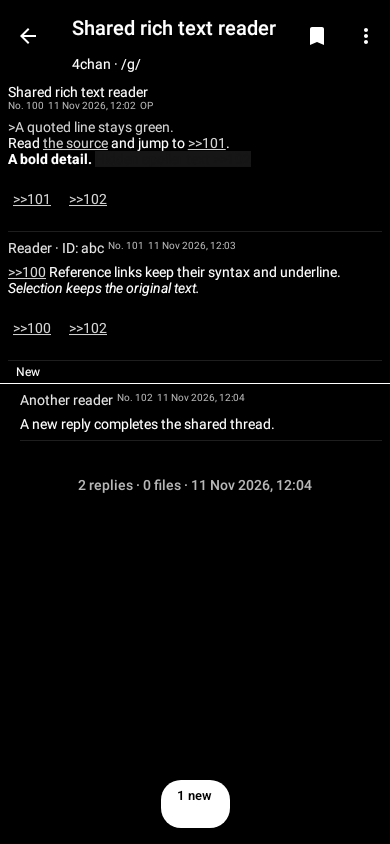
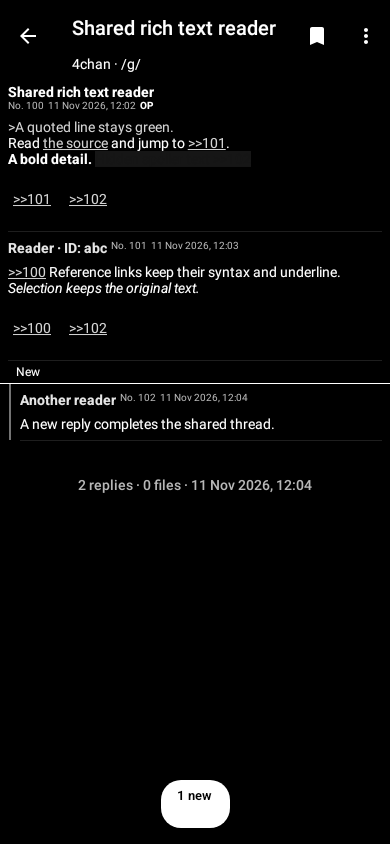
Fix remaining ktlint formatting and update :core:reader Roborazzi screenshots

diff --git a/ui-next/src/commonMain/kotlin/com/orbin/uinext/ReaderCatalogControls.kt b/ui-next/src/commonMain/kotlin/com/orbin/uinext/ReaderCatalogControls.kt
@@ -166,8 +166,7 @@ fun ReaderBoardPicker(
                                 .clip(RoundedCornerShape(OrbinRadius.small))
                                 .background(
                                     if (isSelected) reader.selected else androidx.compose.ui.graphics.Color.Transparent,
-                                )
-                                .selectable(
+                                ).selectable(
                                     selected = isSelected,
                                     role = Role.Button,
                                     onClick = { onSelect(board) },

diff --git a/media/src/main/kotlin/com/orbin/media/video/VideoServer.kt b/media/src/main/kotlin/com/orbin/media/video/VideoServer.kt
@@ -451,6 +451,7 @@ class VideoServer internal constructor(
     ) {
         val partFile: File = partFileFor(finalFile)
         val done = CompletableDeferred<Unit>()
+
         @Suppress("PLATFORM_CLASS_MAPPED_TO_KOTLIN")
         private val dataLock = Object()
 
